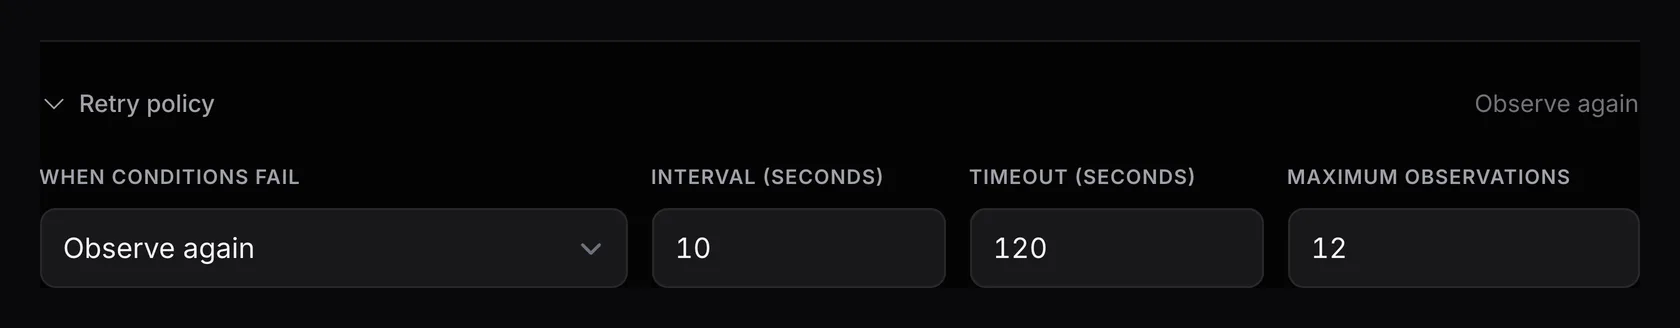
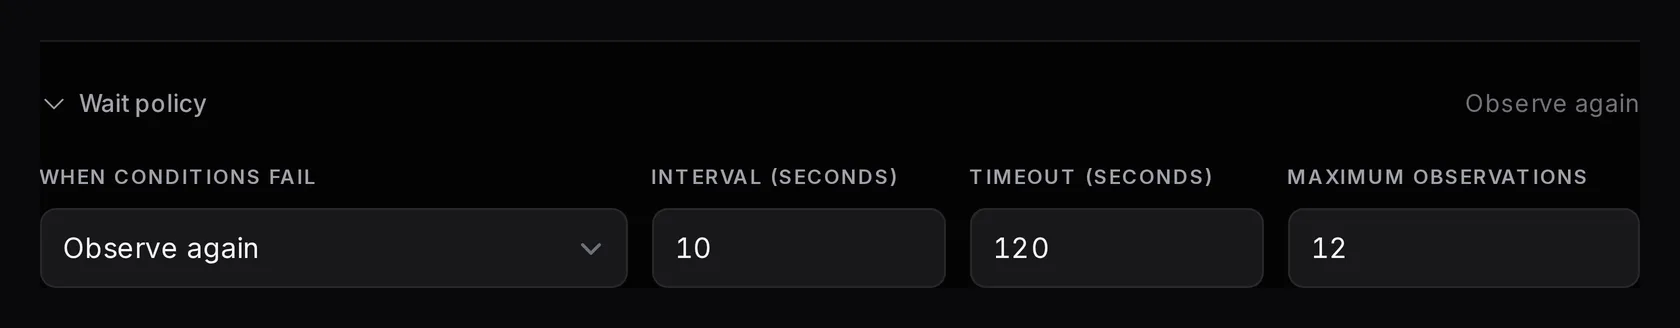
Finish whole-run approval semantics across runbooks
The security model now states preflight plans every item against the
exact trusted pack its frozen runner deploys; the dead awaiting_approval
status branches and the stale stage nouns name concepts the whole-run
approval change deleted, so they go. The runbook editor's step wait
controls take the vocabulary the definition schema and docs already use
— Wait policy, not Retry policy — with the docs screenshot recaptured to
match. Pending MCP runbook executions now hand the model the same
bounded approval object an action run gets (request id, console URL,
hard expiry) plus wait_until, through a visible-execution read that
mirrors the run-side precedent, so a client can relay the approval link
instead of polling blind.

Coop-Task: 2026-07-31-finish-whole-run-approval-semantics-across-runbo
Coop-Recovery: 2026-08-02T06:42:16Z

diff --git a/tools/internal/browser/docs.go b/tools/internal/browser/docs.go
@@ -167,7 +167,7 @@ var docsShots = []shot{
 	{Name: "runbook-arguments", Path: "/app/demo/runbooks", Clicks: []string{navigateRowLink(`a[href*="/runbooks/"][href$="/edit"]`, "Edge configuration rollout", "#runbook-stage-0-step-0-arguments")}, Anchor: Anchor{Selector: "#runbook-stage-0-step-0-arguments"}, Width: 1440, Output: "docs/runbooks/arguments.webp"},
 	{Name: "runbook-outputs", Path: "/app/demo/runbooks", Clicks: []string{navigateRowLink(`a[href*="/runbooks/"][href$="/edit"]`, "Edge configuration rollout", "#runbook-stage-1-step-1-outputs")}, Anchor: Anchor{Selector: "#runbook-stage-1-step-1-outputs"}, Width: 1440, Output: "docs/runbooks/outputs.webp"},
 	{Name: "runbook-conditions", Path: "/app/demo/runbooks", Clicks: []string{navigateRowLink(`a[href*="/runbooks/"][href$="/edit"]`, "Edge configuration rollout", "#runbook-stage-1-step-1-success")}, Anchor: Anchor{Selector: "#runbook-stage-1-step-1-success"}, Width: 1440, Output: "docs/runbooks/conditions.webp"},
-	{Name: "runbook-wait", Path: "/app/demo/runbooks", Clicks: []string{navigateRowLink(`a[href*="/runbooks/"][href$="/edit"]`, "Edge configuration rollout", "#runbook-stage-1-step-1-retry"), openPanel(`#runbook-stage-1-step-1-retry button[phx-click="toggle_panel"]`, "#runbook-stage-1-step-1-retry-controls")}, Anchor: Anchor{Selector: "#runbook-stage-1-step-1-retry"}, Width: 1680, Output: "docs/runbooks/wait.webp"},
+	{Name: "runbook-wait", Path: "/app/demo/runbooks", Clicks: []string{navigateRowLink(`a[href*="/runbooks/"][href$="/edit"]`, "Edge configuration rollout", "#runbook-stage-1-step-1-wait"), openPanel(`#runbook-stage-1-step-1-wait button[phx-click="toggle_panel"]`, "#runbook-stage-1-step-1-wait-controls")}, Anchor: Anchor{Selector: "#runbook-stage-1-step-1-wait"}, Width: 1680, Output: "docs/runbooks/wait.webp"},
 	{Name: "runbook-start", Path: "/app/demo/runbooks", Clicks: []string{navigateRowLink(`a[href*="/runbooks/"][href$="/run"]`, "Edge configuration rollout", "#runbook-start-execution"), waitForResolvedRunbookPlan}, Anchor: Anchor{Selector: "#shell-canvas"}, Width: 1440, TopCSS: 1050, Output: "docs/runbooks/start.webp"},
 	{Name: "runbook-approval", Path: "/app/demo/approvals", Clicks: []string{navigateRowLink(`#pending a[href*="/approvals/"]`, "Edge configuration rollout", "#approval-decision-form")}, Anchor: Anchor{Selector: "#shell-canvas"}, Width: 1280, TopCSS: 1120, Output: "docs/runbooks/approval.webp"},
 	{Name: "runbook-result", Path: "/app/demo/runbooks", Clicks: []string{navigateRowLink(`a[href*="/runbooks/"][href$="/run"]`, "Edge configuration rollout", "#runbook-start-execution"), waitForResolvedRunbookPlan, navigateRowLink(`a[href*="/runs/"]`, "completed Tuesday", "#runbook-execution-result")}, Anchor: Anchor{Selector: "#runbook-execution-result"}, Width: 1280, TopCSS: 1650, Output: "docs/runbooks/result.webp"},

diff --git a/.agent/kb/specs/security-model.md b/.agent/kb/specs/security-model.md
@@ -151,7 +151,7 @@ its actions from itself:
 | Runbook definition exhausts parser or scheduler | One strict JSON-only schema rejects unknown shapes and enforces byte, depth, node, stage, step, target, output, condition, fan-out, wait, and lifetime caps before persistence or dispatch. |
 | Runbook regex consumes unbounded work | Expressions and source text are byte-bounded; PCRE match and recursion limits fail the item closed. Patterns remain data and never enter a command. |
 | Runbook binds output from the wrong host | Output bindings may name only an earlier stage and must resolve to one unique producer or the same runner across fan-out. Ambiguous correlation fails preflight. |
-| Pack fleet moves after runbook review | Preflight selects a compatible trusted version per exact runner and freezes its full pack ref, hash, and action contract. Every later attempt rechecks those frozen facts. |
+| Pack fleet moves after runbook review | Preflight plans every item against the exact trusted pack its frozen runner deploys and freezes the full pack ref, hash, and action contract. Every later attempt rechecks those frozen facts. |
 | Partial fleet mutation after target drift | The complete expanded target set must be in caller scope before creation; later authorization or trust loss halts before the next attempt or stage. Already-running peers only settle their real outcome. |
 | One-runner group selection hides an incompatible or unauthorized peer | Preflight validates every online member in the subject-visible group before deterministically freezing one exact runner. The plan and approval retain the source group; a later disconnect halts instead of reselecting. |
 | Approval hides a wider execution fan-out | Any item that requires approval opens one approval over the complete frozen execution before any action run exists; approver runner scope is checked against every item at notification, visibility, and decision. |

diff --git a/.agent/kb/specs/mcp-api.md b/.agent/kb/specs/mcp-api.md
@@ -1658,6 +1658,28 @@ stable code and message plus the applicable stage, step, and runner identity.
 It describes whole-execution approval, a scheduled wait, or the terminal cause.
 Both `pending_approval` and `active` executions include `next`.
 
+A `pending_approval` execution also carries the same bounded `approval` object
+a pending action run gets — the request ID, the console approval URL the model
+relays to the operator, and the hard expiry — plus `wait_until` set to that
+expiry. Both fields appear only while the whole-run approval is pending and
+its request is visible to the caller:
+
+```json
+{
+  "status": "pending_approval",
+  "blocking": {
+    "code": "approval_required",
+    "message": "Runbook execution approval is required."
+  },
+  "approval": {
+    "request_id": "8b7c9d4e-2f31-4a68-9c05-7d1e83b2a6f4",
+    "url": "https://emisar.dev/app/example/approvals/8b7c9d4e-2f31-4a68-9c05-7d1e83b2a6f4",
+    "expires_at": "2026-07-13T15:12:10Z"
+  },
+  "wait_until": "2026-07-13T15:12:10Z"
+}
+```
+
 Cloud-expanded runbooks cannot currently target a runner advertising
 `enforce_signatures: true`, because the client has not signed the frozen expanded
 step plan. The tool fails before creating an execution with
